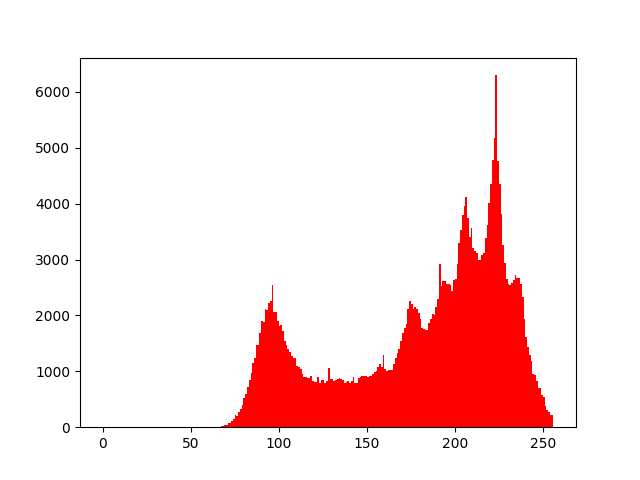
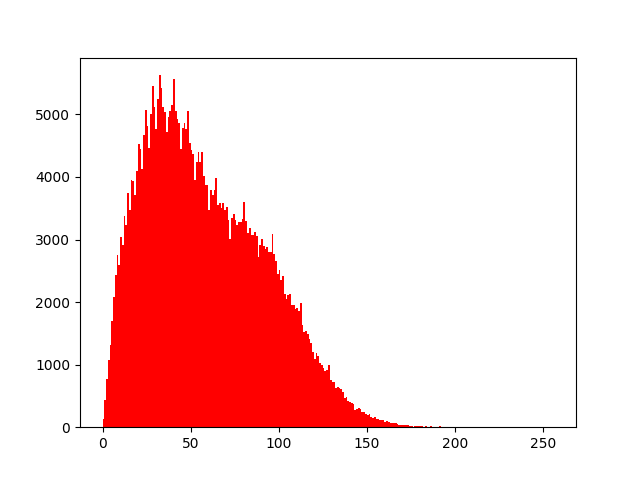
finished gamma correction

diff --git a/centerFrame.py b/centerFrame.py
@@ -1,3 +1,4 @@
+from pickletools import uint8
 from tkinter import Frame, \
     StringVar, \
     Button, \
@@ -139,16 +140,20 @@ class CenterFrame:
             threshold = 127 # user-adjusted
             
             (thresh, b_and_white) = cv2.threshold(grayscale_copy, threshold, 255, cv2.THRESH_BINARY)
-            #cv2.imshow('B&W', b_and_white)
             cv2.imwrite('./assets/b_and_w.png', b_and_white)
             b_and_white = Image.open('./assets/b_and_w.png')
             b_and_white.show()
+
+            # power law gamma
+            gamma_copy_img = cv2.imread('./assets/pic.png')
             
-
-            self.state_manager.image = grayscale_img
-            self.state_manager.image_path = './assets/grayscale.png'
-
-
+            gamma_const = 0.4
+            
+            gamma = np.array(255*(gamma_copy_img/255)**gamma_const, dtype='uint8')
+            cv2.imwrite('./assets/gamma.png', gamma)
+            gamma_img = Image.open('./assets/gamma.png')
+            gamma_img.show()
+            
             # Destroy instructions label
             self.instructions.destroy()
 
